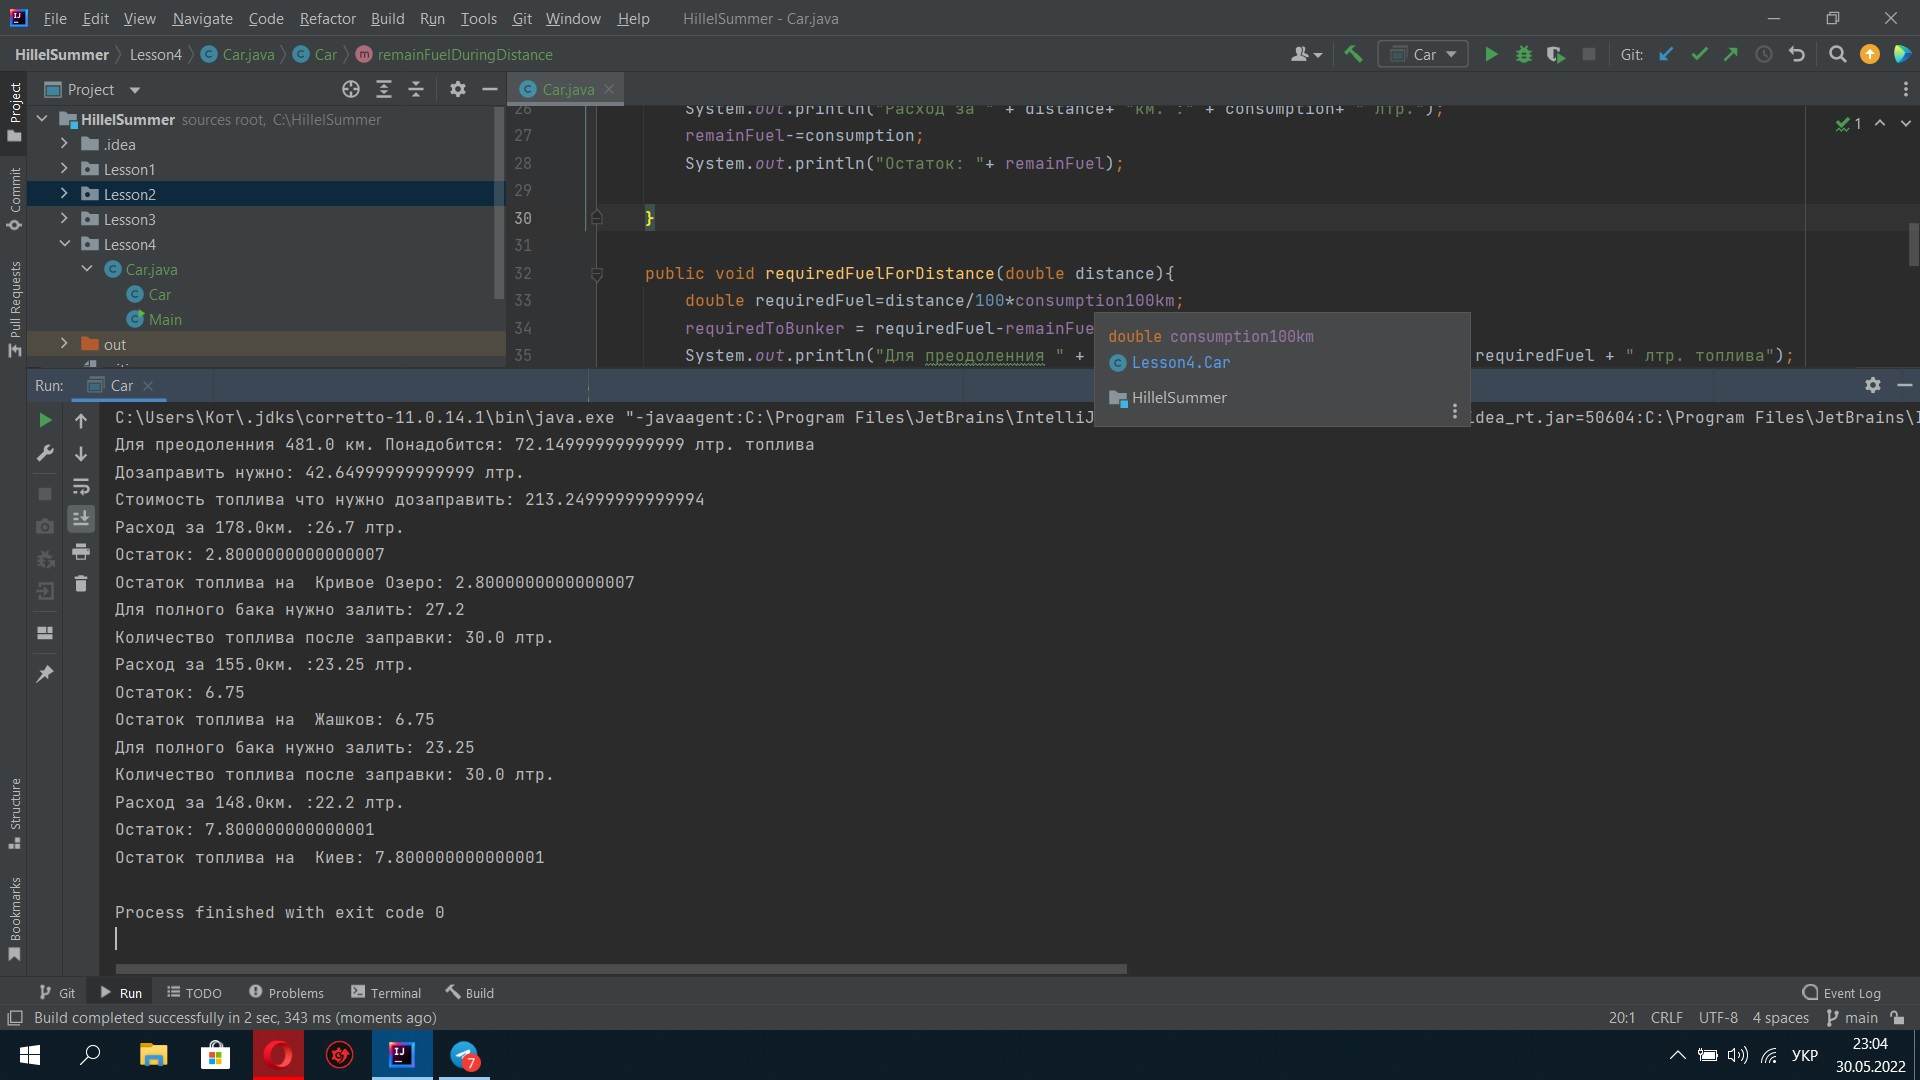
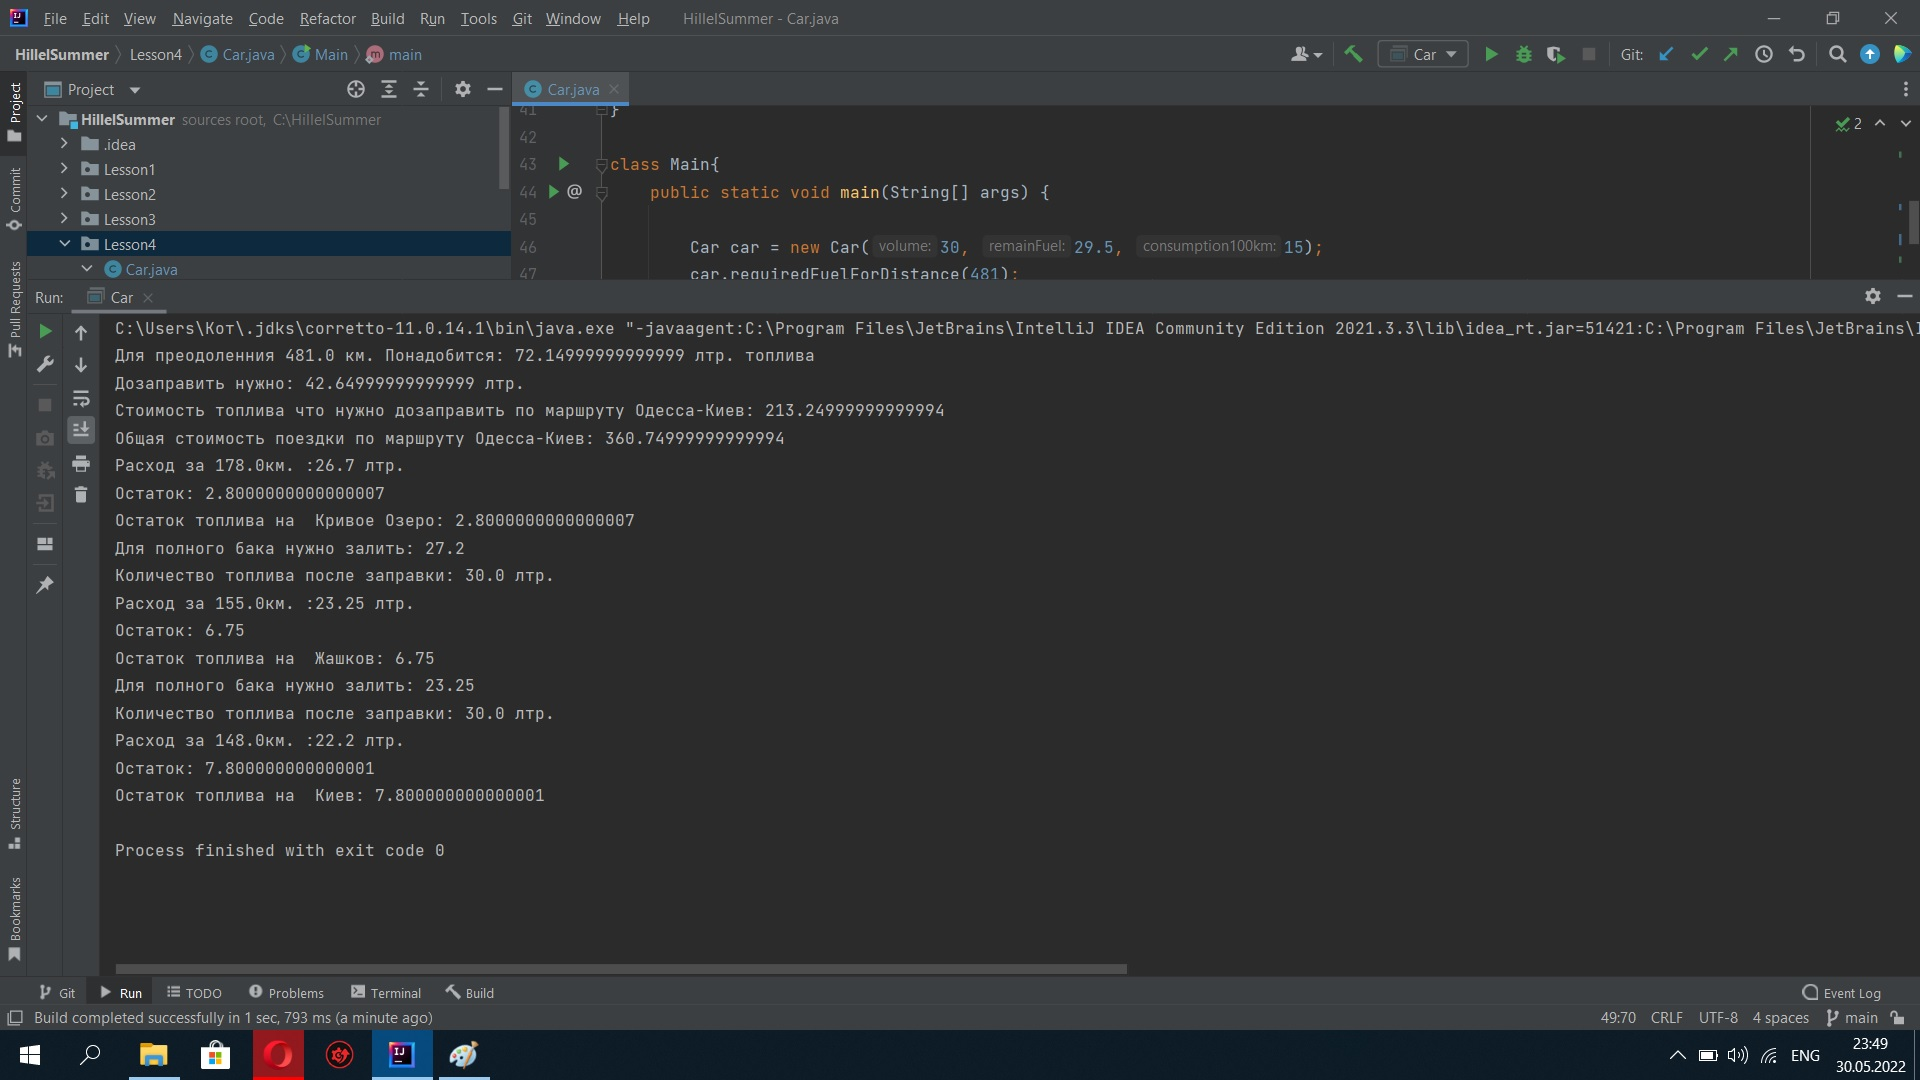
HomeWork4

diff --git a/Lesson4/Car.java b/Lesson4/Car.java
@@ -5,6 +5,7 @@ public class Car {
     double remainFuel;
     double consumption100km;
     double requiredToBunker;
+    double requiredFuel;
 
     public Car(double volume, double remainFuel, double consumption100km) {
         this.volume = volume;
@@ -30,7 +31,7 @@ public class Car {
     }
 
     public void requiredFuelForDistance(double distance){
-        double requiredFuel=distance/100*consumption100km;
+        requiredFuel=distance/100*consumption100km;
         requiredToBunker = requiredFuel-remainFuel;
         System.out.println("Для преодоленния " + distance + " км."+ " Понадобится: " + requiredFuel + " лтр. топлива");
         System.out.println("Дозаправить нужно: " + requiredToBunker+ " лтр.");
@@ -45,7 +46,9 @@ class Main{
         Car car = new Car(30, 29.5, 15);
         car.requiredFuelForDistance(481);
         double price=Integer.parseInt(args[0])*car.requiredToBunker;
-        System.out.println("Стоимость топлива что нужно дозаправить: " + price);
+        double totalPrice=Integer.parseInt(args[0])*car.requiredFuel;
+        System.out.println("Cтоимость топлива что нужно дозаправить по маршруту Одесса-Киев: " + price);
+        System.out.println("Общая стоимость поездки по маршруту Одесса-Киев: " + totalPrice);
         car.remainFuelDuringDistance(178);
         System.out.println("Остаток топлива на  Кривое Озеро: " + car.remainFuel);
         car.fullVolume();
@@ -54,6 +57,7 @@ class Main{
         car.fullVolume();
         car.remainFuelDuringDistance(148);
         System.out.println("Остаток топлива на  Киев: " + car.remainFuel);
+
 
     }
 }
